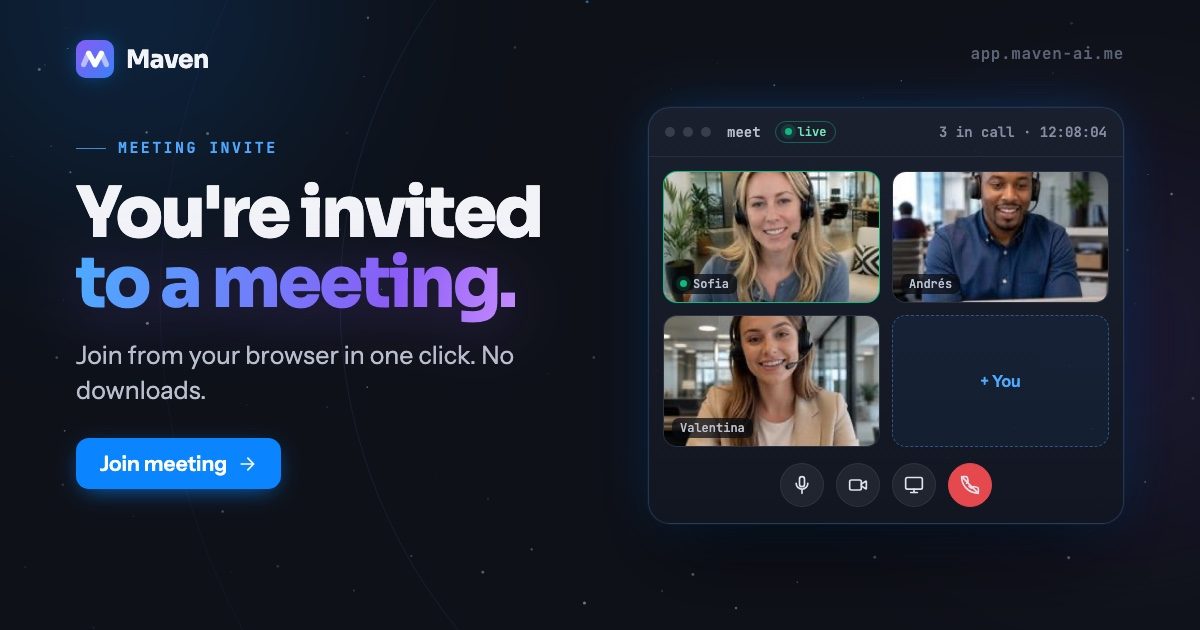
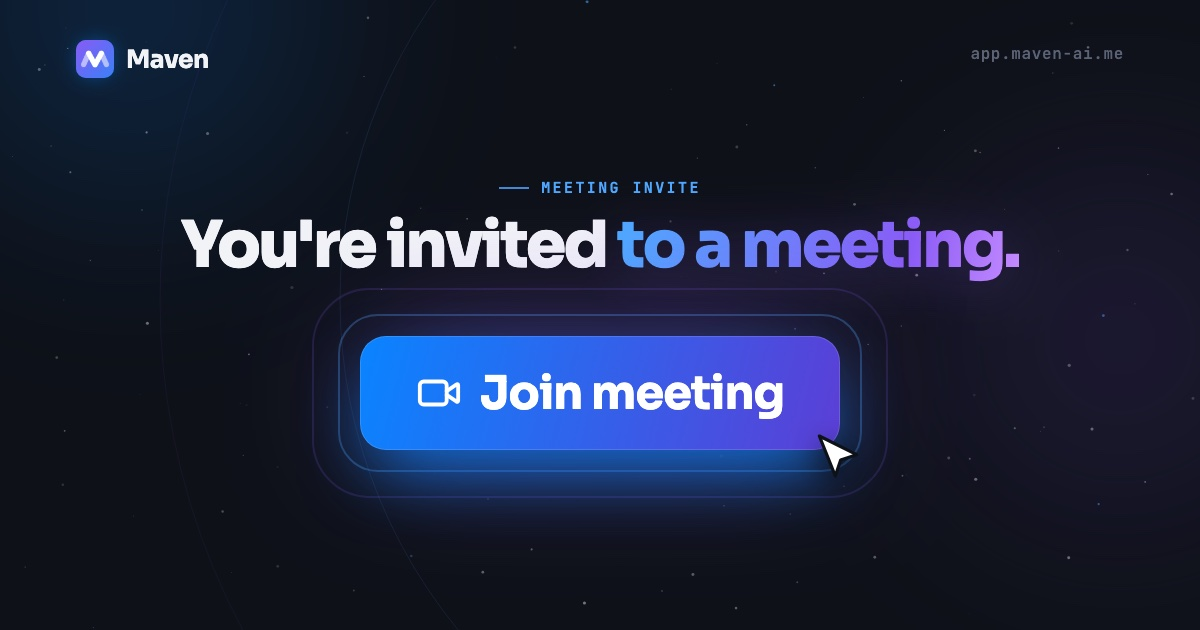
feat(links): la invitación a reunión usa la tarjeta del botón «Join meeting» (R4)
Alvaro (11/11): la de la sala con caras se confundía con la de la plataforma.
Imagen nueva y ?v=2 para que WhatsApp no siga mostrando la vieja.

diff --git a/frontend/src/lib/tarjetasDeLink.ts b/frontend/src/lib/tarjetasDeLink.ts
@@ -40,9 +40,11 @@ export const TARJETAS = {
     archivo: "og-reunion.html",
     url: `${BASE}/`,
     titulo: "You're invited to a meeting",
-    descripcion: "Join from your browser in one click. No downloads.",
-    imagen: `${BASE}/og-reunion.jpg?v=1`,
-    alt: "Maven meeting invite",
+    descripcion: "Tap the link and join from your browser. No downloads.",
+    // v=2: la imagen del botón «Join meeting» (R4), elegida el 11/11. Subir el
+    // número al cambiarla, para que WhatsApp no siga mostrando la vieja.
+    imagen: `${BASE}/og-reunion.jpg?v=2`,
+    alt: "Join meeting on Maven",
   },
   cowork: {
     archivo: "og-cowork.html",

diff --git a/frontend/src/test/tarjetasDeLink.test.ts b/frontend/src/test/tarjetasDeLink.test.ts
@@ -26,7 +26,7 @@ describe("la tarjeta de WhatsApp de cada link", () => {
     const html = conTarjeta(INDEX, TARJETAS.reunion);
     expect(html).toContain(`property="og:title" content="You&#39;re invited to a meeting"`.replace("&#39;", "'"));
     expect(html).toContain("og-reunion.jpg");
-    expect(html).toContain('name="twitter:image" content="https://app.maven-ai.me/og-reunion.jpg?v=1"');
+    expect(html).toContain('name="twitter:image" content="https://app.maven-ai.me/og-reunion.jpg?v=2"');
   });
 
   it("un link de Cowork dice que el equipo te llama", () => {
